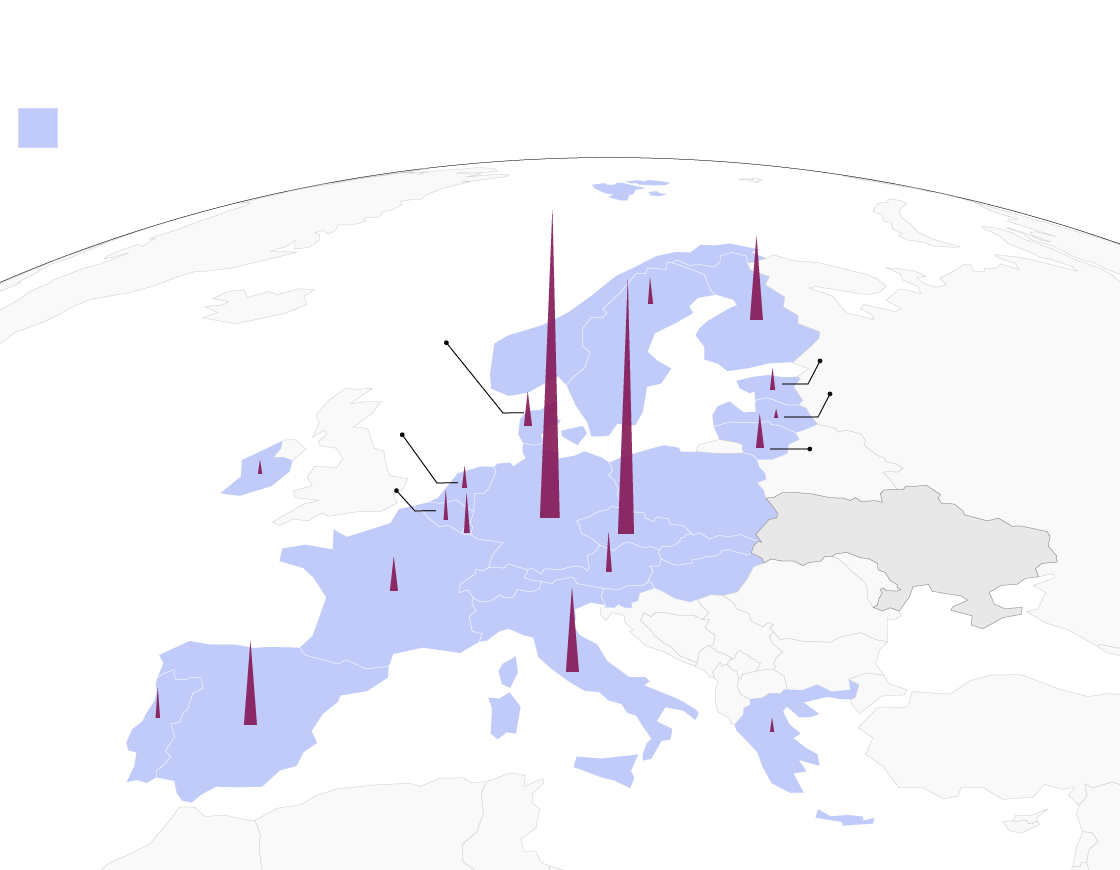
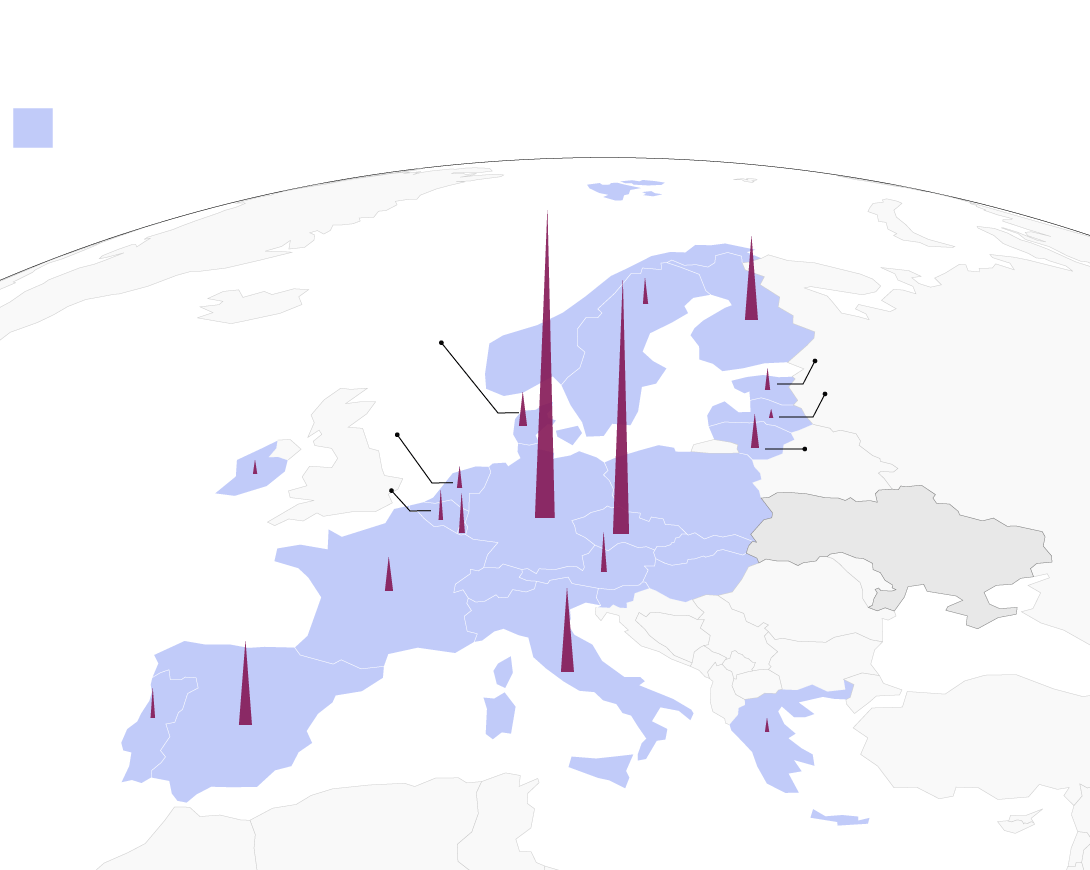
Add files via upload

diff --git a/Laura/2022.03_RefugiadosUcrania/Mapas.html b/Laura/2022.03_RefugiadosUcrania/Mapas.html
@@ -1,5 +1,5 @@
 
-<!-- Generated by ai2html v0.102.0 - 2022-03-31 22:57 -->
+<!-- Generated by ai2html v0.102.0 - 2022-03-31 23:03 -->
 <!-- ai file: Mapas.ai -->
 <style media="screen,print">
 	#g-Mapas-box ,
@@ -167,10 +167,6 @@
 		height:19px;
 		font-size:16px;
 	}
-	#g-Mapas-Mesa_de_trabajo_1 {
-		position:relative;
-		overflow:hidden;
-	}
 
 	/* Custom CSS */
 	@import url('https://fonts.googleapis.com/css2?family=Roboto+Condensed:ital,wght@0,300;0,400;0,700;1,300;1,400;1,700&display=swap');
@@ -180,89 +176,89 @@
 <div id="g-Mapas-box" class="ai2html">
 
 	<!-- Artboard: Desktop -->
-	<div id="g-Mapas-Desktop" class="g-artboard" style="min-width: 560px;" data-aspect-ratio="1.287" data-min-width="560">
-<div style="padding: 0 0 77.6786% 0;"></div>
+	<div id="g-Mapas-Desktop" class="g-artboard" style="min-width: 545px;max-width: 559px;max-height: 446px" data-aspect-ratio="1.253" data-min-width="545" data-max-width="559">
+<div style="padding: 0 0 79.8165% 0;"></div>
 		<img id="g-Mapas-Desktop-img" class="g-aiImg" alt="" src="Mapas-Desktop.png"/>
-		<div id="g-ai0-1" class="g-Capa_1 g-aiAbs g-aiPointText" style="top:6.4226%;margin-top:-22.9px;left:2.1023%;width:556px;">
+		<div id="g-ai0-1" class="g-Capa_1 g-aiAbs g-aiPointText" style="top:6.4226%;margin-top:-22.9px;left:1.151%;width:556px;">
 			<p class="g-pstyle0">Distribución de ciudadanos ucranianos entre los países del área Schengen</p>
 			<p class="g-pstyle0">que no son limítrofes</p>
 		</div>
-		<div id="g-ai0-2" class="g-Capa_1 g-aiAbs g-aiPointText" style="top:15.0602%;margin-top:-10.5px;left:7.3186%;width:230px;">
+		<div id="g-ai0-2" class="g-Capa_1 g-aiAbs g-aiPointText" style="top:14.8303%;margin-top:-10.5px;left:6.5108%;width:230px;">
 			<p class="g-pstyle1">Estados sin controles fronterizos</p>
 		</div>
-		<div id="g-ai0-3" class="g-Capa_1 g-aiAbs g-aiPointText" style="top:28.7093%;margin-top:-14.9px;left:38.9455%;width:73px;">
+		<div id="g-ai0-3" class="g-Capa_1 g-aiAbs g-aiPointText" style="top:28.7093%;margin-top:-14.9px;left:39.5587%;width:73px;">
 			<p class="g-pstyle2">Alemania</p>
 			<p class="g-pstyle3">283.000</p>
 		</div>
-		<div id="g-ai0-4" class="g-Capa_1 g-aiAbs g-aiPointText" style="top:29.6288%;margin-top:-14.9px;left:58.2312%;width:61px;">
+		<div id="g-ai0-4" class="g-Capa_1 g-aiAbs g-aiPointText" style="top:29.6288%;margin-top:-14.9px;left:59.3752%;width:61px;">
 			<p class="g-pstyle2">Suecia</p>
 			<p class="g-pstyle3">21.962</p>
 		</div>
-		<div id="g-ai0-5" class="g-Capa_1 g-aiAbs g-aiPointText" style="top:32.8472%;margin-top:-14.9px;left:69.3026%;width:71px;">
+		<div id="g-ai0-5" class="g-Capa_1 g-aiAbs g-aiPointText" style="top:32.8472%;margin-top:-14.9px;left:70.7513%;width:71px;">
 			<p class="g-pstyle2">Finlandia</p>
 			<p class="g-pstyle3">80.000</p>
 		</div>
-		<div id="g-ai0-6" class="g-Capa_1 g-aiAbs g-aiPointText" style="top:37.9047%;margin-top:-14.9px;left:31.6241%;width:84px;">
+		<div id="g-ai0-6" class="g-Capa_1 g-aiAbs g-aiPointText" style="top:37.9047%;margin-top:-14.9px;left:32.0357%;width:84px;">
 			<p class="g-pstyle2">Dinamarca </p>
 			<p class="g-pstyle3">28.000</p>
 		</div>
-		<div id="g-ai0-7" class="g-Capa_1 g-aiAbs g-aiPointText" style="top:40.8932%;margin-top:-7.9px;left:73.772%;width:105px;">
+		<div id="g-ai0-7" class="g-Capa_1 g-aiAbs g-aiPointText" style="top:40.8932%;margin-top:-7.9px;left:75.3437%;width:105px;">
 			<p class="g-pstyle2">Estonia <span class="g-cstyle0">25.347</span></p>
 		</div>
-		<div id="g-ai0-8" class="g-Capa_1 g-aiAbs g-aiPointText" style="top:45.0311%;margin-top:-7.9px;left:74.8383%;width:98px;">
+		<div id="g-ai0-8" class="g-Capa_1 g-aiAbs g-aiPointText" style="top:45.0311%;margin-top:-7.9px;left:76.4394%;width:98px;">
 			<p class="g-pstyle2">Letonia <span class="g-cstyle0">9.000</span></p>
 		</div>
-		<div id="g-ai0-9" class="g-Capa_1 g-aiAbs g-aiPointText" style="top:47.7897%;margin-top:-14.9px;left:28.2312%;width:91px;">
+		<div id="g-ai0-9" class="g-Capa_1 g-aiAbs g-aiPointText" style="top:47.7897%;margin-top:-14.9px;left:28.5495%;width:91px;">
 			<p class="g-pstyle2">Países Bajos</p>
 			<p class="g-pstyle3">20.000</p>
 		</div>
-		<div id="g-ai0-10" class="g-Capa_1 g-aiAbs g-aiPointText" style="top:52.3874%;margin-top:-14.9px;right:79.1767%;width:61px;">
+		<div id="g-ai0-10" class="g-Capa_1 g-aiAbs g-aiPointText" style="top:52.3874%;margin-top:-14.9px;right:79.0623%;width:61px;">
 			<p class="g-pstyle4">Irlanda</p>
 			<p class="g-pstyle5">14.600</p>
 		</div>
-		<div id="g-ai0-11" class="g-Capa_1 g-aiAbs g-aiPointText" style="top:51.9276%;margin-top:-7.9px;left:72.6955%;width:108px;">
+		<div id="g-ai0-11" class="g-Capa_1 g-aiAbs g-aiPointText" style="top:51.9276%;margin-top:-7.9px;left:74.2376%;width:108px;">
 			<p class="g-pstyle2">Lituania <span class="g-cstyle0">32.000</span></p>
 		</div>
-		<div id="g-ai0-12" class="g-Capa_1 g-aiAbs g-aiPointText" style="top:55.6058%;margin-top:-14.9px;left:57.6955%;width:70px;">
+		<div id="g-ai0-12" class="g-Capa_1 g-aiAbs g-aiPointText" style="top:55.6058%;margin-top:-14.9px;left:58.8247%;width:70px;">
 			<p class="g-pstyle2">R. Checa</p>
 			<p class="g-pstyle3">240.000</p>
 		</div>
-		<div id="g-ai0-13" class="g-Capa_1 g-aiAbs g-aiPointText" style="top:56.0656%;margin-top:-14.9px;left:28.0526%;width:62px;">
+		<div id="g-ai0-13" class="g-Capa_1 g-aiAbs g-aiPointText" style="top:56.0656%;margin-top:-14.9px;left:28.366%;width:62px;">
 			<p class="g-pstyle2">Bélgica</p>
 			<p class="g-pstyle3">24.434</p>
 		</div>
-		<div id="g-ai0-14" class="g-Capa_1 g-aiAbs g-aiPointText" style="top:62.0426%;margin-top:-14.9px;left:42.6955%;width:61px;">
+		<div id="g-ai0-14" class="g-Capa_1 g-aiAbs g-aiPointText" style="top:62.0426%;margin-top:-14.9px;left:43.4119%;width:61px;">
 			<p class="g-pstyle2">Lux.</p>
 			<p class="g-pstyle3">40.000</p>
 		</div>
-		<div id="g-ai0-15" class="g-Capa_1 g-aiAbs g-aiPointText" style="top:61.123%;margin-top:-7.9px;right:13.4031%;width:86px;">
+		<div id="g-ai0-15" class="g-Capa_1 g-aiAbs g-aiPointText" style="top:61.123%;margin-top:-7.9px;right:11.4785%;width:86px;">
 			<p class="g-pstyle6">UCRANIA</p>
 		</div>
-		<div id="g-ai0-16" class="g-Capa_1 g-aiAbs g-aiPointText" style="top:65.0311%;margin-top:-14.9px;left:55.5526%;width:61px;">
+		<div id="g-ai0-16" class="g-Capa_1 g-aiAbs g-aiPointText" style="top:65.0311%;margin-top:-14.9px;left:56.6229%;width:61px;">
 			<p class="g-pstyle2">Austria</p>
 			<p class="g-pstyle3">42.000</p>
 		</div>
-		<div id="g-ai0-17" class="g-Capa_1 g-aiAbs g-aiPointText" style="top:66.1805%;margin-top:-14.9px;left:27.3383%;width:62px;">
+		<div id="g-ai0-17" class="g-Capa_1 g-aiAbs g-aiPointText" style="top:66.1805%;margin-top:-14.9px;left:27.6321%;width:62px;">
 			<p class="g-pstyle2">Francia</p>
 			<p class="g-pstyle3">30.000</p>
 		</div>
-		<div id="g-ai0-18" class="g-Capa_1 g-aiAbs g-aiPointText" style="top:73.9966%;margin-top:-14.9px;left:52.8741%;width:61px;">
+		<div id="g-ai0-18" class="g-Capa_1 g-aiAbs g-aiPointText" style="top:73.9966%;margin-top:-14.9px;left:53.8706%;width:61px;">
 			<p class="g-pstyle2">Italia</p>
 			<p class="g-pstyle3">78.081</p>
 		</div>
-		<div id="g-ai0-19" class="g-Capa_1 g-aiAbs g-aiPointText" style="top:80.2035%;margin-top:-14.9px;left:23.9455%;width:62px;">
+		<div id="g-ai0-19" class="g-Capa_1 g-aiAbs g-aiPointText" style="top:80.2035%;margin-top:-14.9px;left:24.1458%;width:62px;">
 			<p class="g-pstyle2">España</p>
 			<p class="g-pstyle3">80.000</p>
 		</div>
-		<div id="g-ai0-20" class="g-Capa_1 g-aiAbs g-aiPointText" style="top:82.0426%;margin-top:-14.9px;left:4.6598%;width:68px;">
+		<div id="g-ai0-20" class="g-Capa_1 g-aiAbs g-aiPointText" style="top:82.0426%;margin-top:-14.9px;left:4.3293%;width:68px;">
 			<p class="g-pstyle2">Portugal</p>
 			<p class="g-pstyle3">23.813</p>
 		</div>
-		<div id="g-ai0-21" class="g-Capa_1 g-aiAbs g-aiPointText" style="top:87.3299%;margin-top:-14.9px;right:30.9624%;width:61px;">
+		<div id="g-ai0-21" class="g-Capa_1 g-aiAbs g-aiPointText" style="top:87.3299%;margin-top:-14.9px;right:29.521%;width:61px;">
 			<p class="g-pstyle4">Grecia</p>
 			<p class="g-pstyle5">14.429</p>
 		</div>
-		<div id="g-ai0-22" class="g-Capa_1 g-aiAbs g-aiPointText" style="top:97.5889%;margin-top:-10.5px;left:1.3498%;width:291px;">
+		<div id="g-ai0-22" class="g-Capa_1 g-aiAbs g-aiPointText" style="top:97.5889%;margin-top:-10.5px;left:0.9283%;width:291px;">
 			<p class="g-pstyle1">Fuente: Gobiernos de cada país y agencias</p>
 		</div>
 	</div>
@@ -274,7 +270,7 @@
 	</div>
 
 	<!-- Artboard: Mobile -->
-	<div id="g-Mapas-Mobile" class="g-artboard" style="max-width: 559px;max-height: 859px" data-aspect-ratio="0.651" data-min-width="0" data-max-width="559">
+	<div id="g-Mapas-Mobile" class="g-artboard" style="max-width: 544px;max-height: 836px" data-aspect-ratio="0.651" data-min-width="0" data-max-width="544">
 <div style="padding: 0 0 153.6741% 0;"></div>
 		<img id="g-Mapas-Mobile-img" class="g-aiImg" alt="" src="Mapas-Mobile.png"/>
 		<div id="g-ai2-1" class="g-Capa_1 g-aiAbs g-aiPointText" style="top:6.4321%;margin-top:-22.9px;left:4.0897%;width:315px;">
@@ -343,12 +339,6 @@
 		<div id="g-ai2-18" class="g-Capa_1 g-aiAbs g-aiPointText" style="top:96.5721%;margin-top:-10.5px;left:3.1372%;width:291px;">
 			<p class="g-pstyle8">Fuente: Gobiernos de cada país y agencias</p>
 		</div>
-	</div>
-
-	<!-- Artboard: Mesa_de_trabajo_1 -->
-	<div id="g-Mapas-Mesa_de_trabajo_1" class="g-artboard" style="min-width: 560px;" data-aspect-ratio="1.287" data-min-width="560">
-<div style="padding: 0 0 77.6786% 0;"></div>
-		<img id="g-Mapas-Mesa_de_trabajo_1-img" class="g-aiImg" alt="" src="Mapas-Mesa_de_trabajo_1.png"/>
 	</div>
 
 </div>
@@ -464,4 +454,4 @@
 		}
 	})("g-Mapas-box", {namespace: "g-", setup: window.setupInteractive || window.getComponent});
 </script>
-<!-- End ai2html - 2022-03-31 22:57 -->
+<!-- End ai2html - 2022-03-31 23:03 -->
